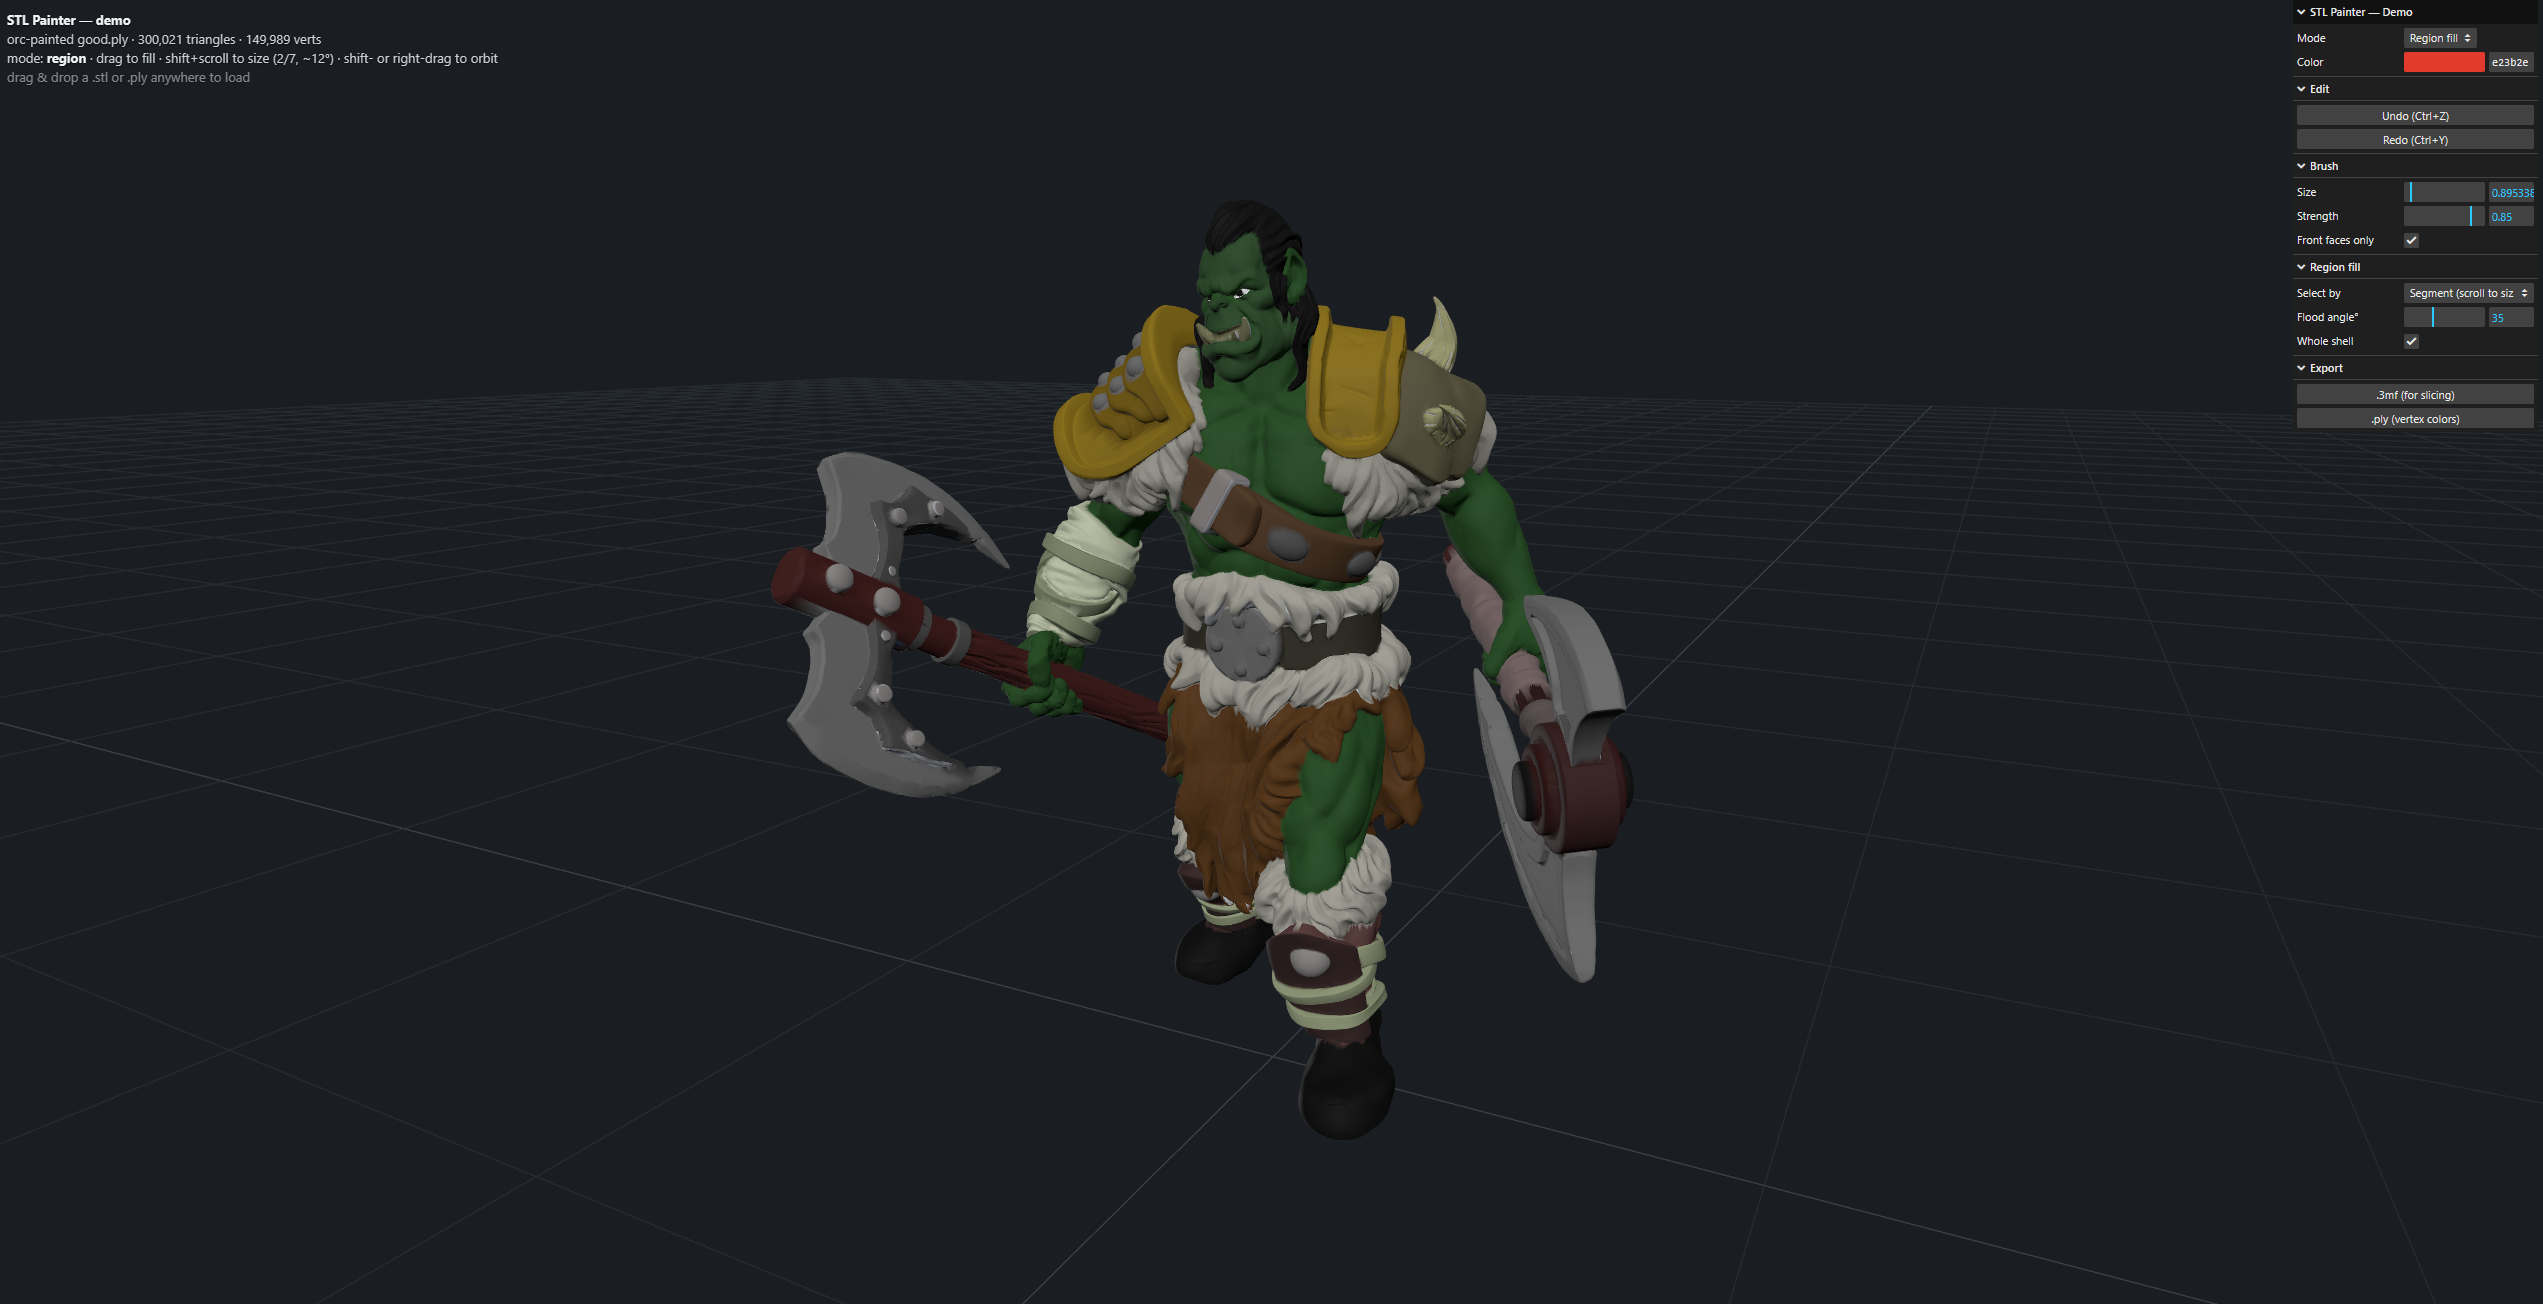
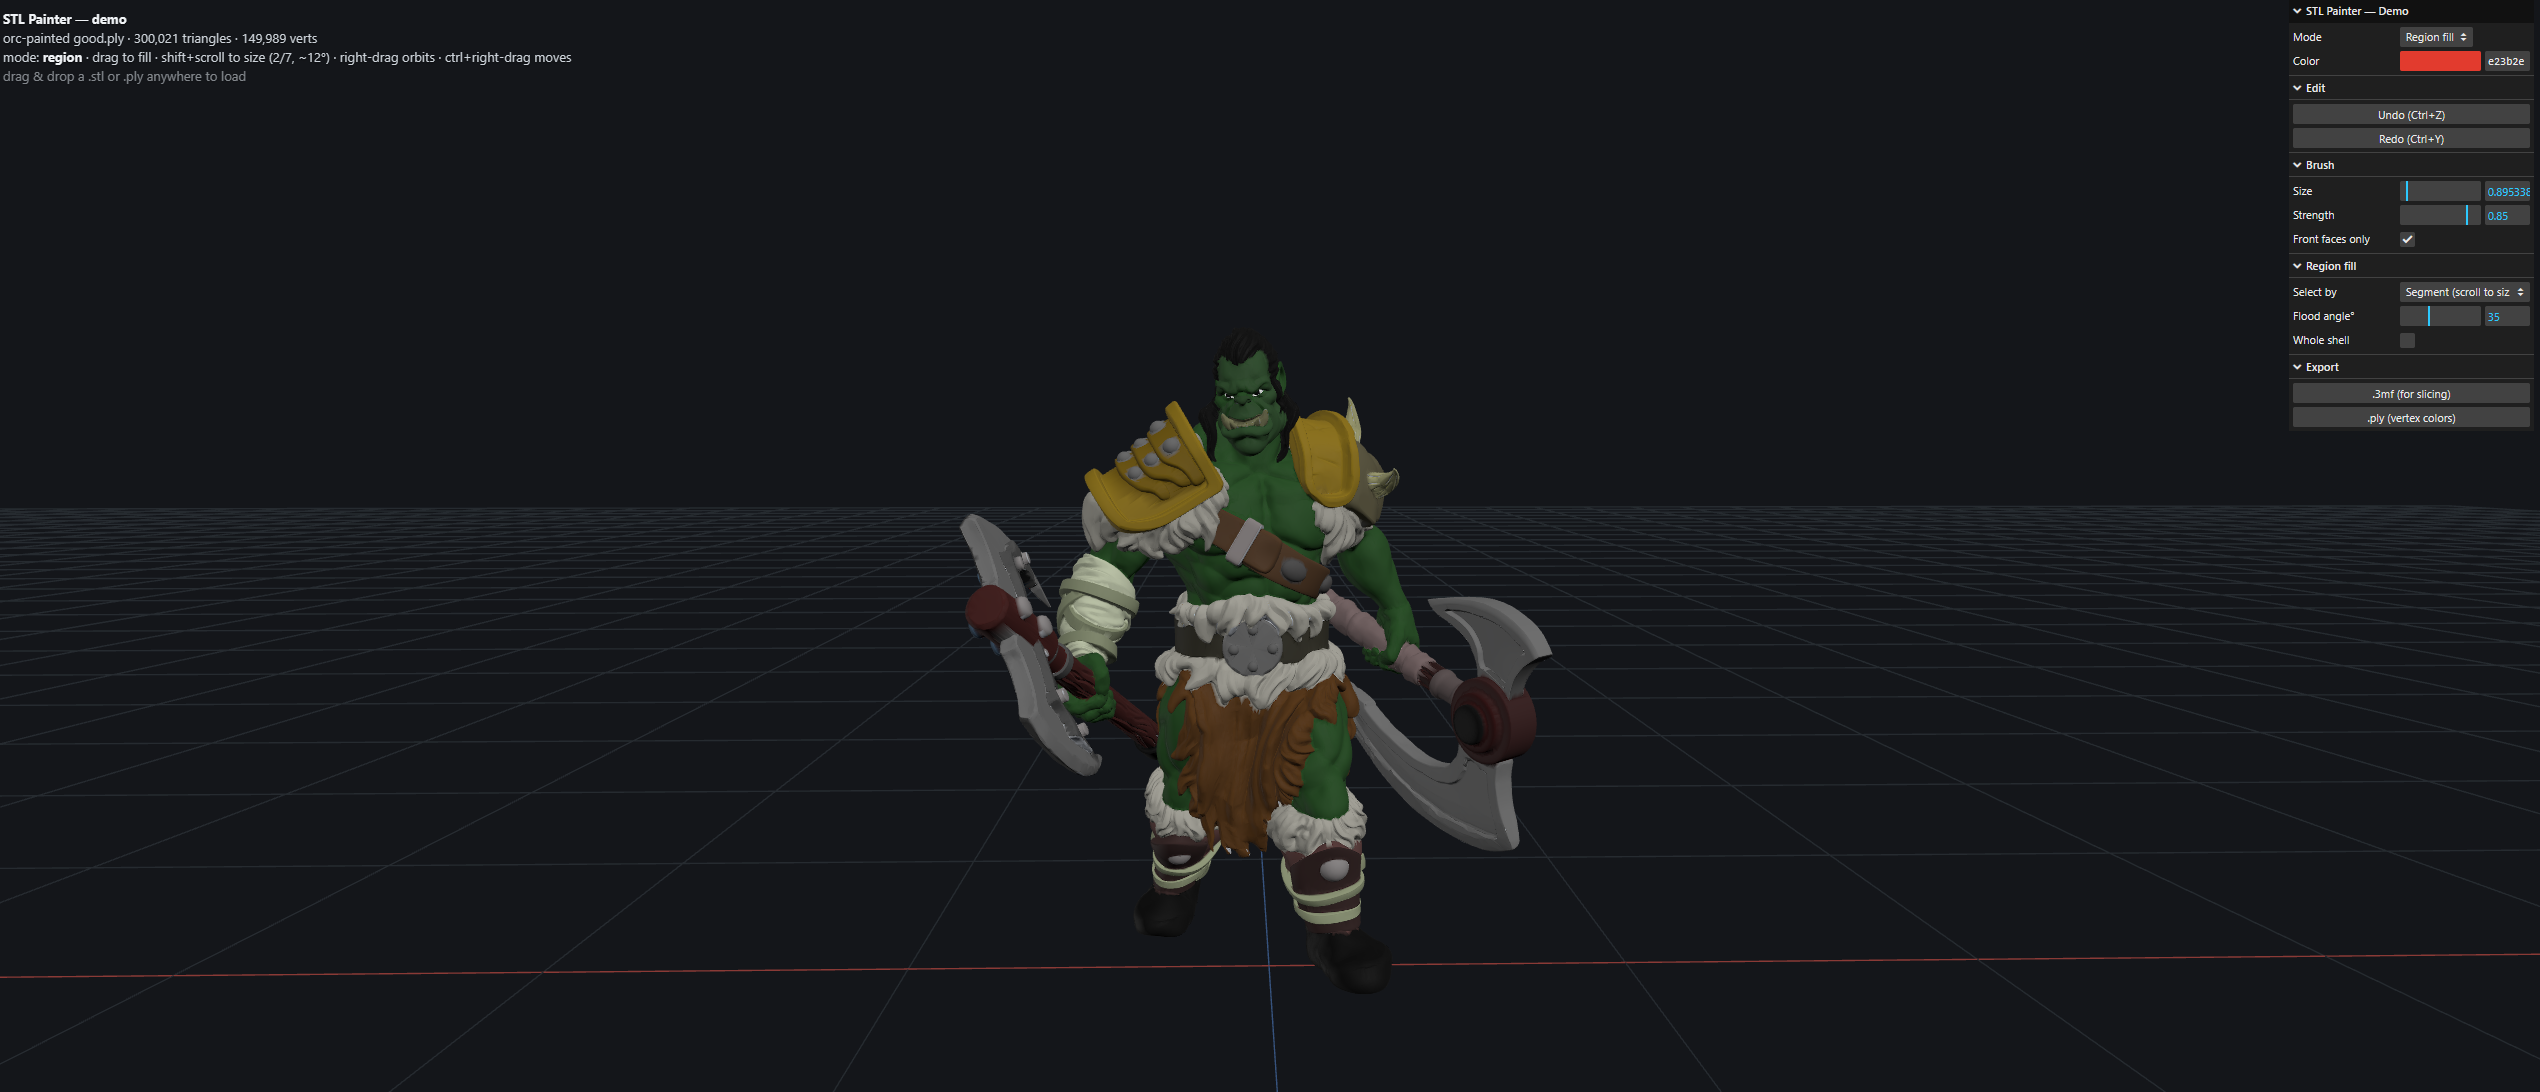
feat: colored ground axes + Ctrl+right-drag pan; chore: darker background, single-grid refactor

Changed region(s): [[0.2799, 0.1868, 0.6531, 0.8718], [0.902, 0.0, 1.0, 0.4048], [0.0, 0.0, 0.2177, 0.0934]]

diff --git a/src/scene.ts b/src/scene.ts
@@ -6,10 +6,50 @@ export interface SceneContext {
   camera: THREE.PerspectiveCamera
   renderer: THREE.WebGLRenderer
   controls: OrbitControls
-  grid: THREE.GridHelper
+  grid: THREE.LineSegments
 }
 
-const BACKGROUND = 0x1a1d21
+const BACKGROUND = 0x14161a
+
+/**
+ * A single ground grid whose two center lines are colored as the X (red) and
+ * Z (blue) axes, with the rest gray — one geometry, one draw call, all coplanar.
+ */
+function makeGrid(
+  size: number,
+  divisions: number,
+  gridColor: number,
+  xAxisColor: number,
+  zAxisColor: number,
+): THREE.LineSegments
+{
+  const half = size / 2
+  const step = size / divisions
+  const grid = new THREE.Color(gridColor)
+  const xAxis = new THREE.Color(xAxisColor)
+  const zAxis = new THREE.Color(zAxisColor)
+
+  const positions: number[] = []
+  const colors: number[] = []
+  const segment = (x1: number, z1: number, x2: number, z2: number, c: THREE.Color): void =>
+  {
+    positions.push(x1, 0, z1, x2, 0, z2)
+    colors.push(c.r, c.g, c.b, c.r, c.g, c.b)
+  }
+
+  for (let i = 0; i <= divisions; i++)
+  {
+    const p = -half + i * step
+    const center = Math.abs(p) < step / 2
+    segment(-half, p, half, p, center ? xAxis : grid) // parallel to X; z = 0 is the X axis
+    segment(p, -half, p, half, center ? zAxis : grid) // parallel to Z; x = 0 is the Z axis
+  }
+
+  const geometry = new THREE.BufferGeometry()
+  geometry.setAttribute('position', new THREE.Float32BufferAttribute(positions, 3))
+  geometry.setAttribute('color', new THREE.Float32BufferAttribute(colors, 3))
+  return new THREE.LineSegments(geometry, new THREE.LineBasicMaterial({ vertexColors: true }))
+}
 
 export function createScene(canvas: HTMLCanvasElement): SceneContext
 {
@@ -47,7 +87,8 @@ export function createScene(canvas: HTMLCanvasElement): SceneContext
   fill.position.set(-2, -1, -1.5)
   scene.add(fill)
 
-  const grid = new THREE.GridHelper(1000, 50, 0x3a4047, 0x262b30)
+  // Grid with the center lines colored as the X (red) and Z (blue) axes.
+  const grid = makeGrid(1000, 50, 0x262b30, 0x8a3a36, 0x36527d)
   scene.add(grid)
 
   window.addEventListener('resize', () =>

diff --git a/src/main.ts b/src/main.ts
@@ -60,7 +60,6 @@ function toNdc(e: PointerEvent): void
 canvas.addEventListener('pointerdown', (e) =>
 {
   if (e.button !== 0) return
-  if (e.shiftKey) return // Shift+left-drag is the free-move (orbit) override
 
   if (painter && state.mode === 'paint')
   {
@@ -149,16 +148,20 @@ window.addEventListener('keydown', (e) =>
   else if (k === 'y' || (k === 'z' && e.shiftKey)) { if (history?.redo()) e.preventDefault() }
 })
 
-// Hold Shift to free-move (orbit) with left-drag even while a tool owns the
-// left button. Releasing Shift restores the tool's left-click.
-function setLeftOrbit(on: boolean): void
-{
-  if (state.mode === 'orbit') return
-  ;(ctx.controls.mouseButtons as any).LEFT = on ? THREE.MOUSE.ROTATE : null
-}
-window.addEventListener('keydown', (e) => { if (e.key === 'Shift') setLeftOrbit(true) })
-window.addEventListener('keyup', (e) => { if (e.key === 'Shift') setLeftOrbit(false) })
-window.addEventListener('blur', () => setLeftOrbit(false))
+// On window + capture phase so it runs before OrbitControls' own pointerdown
+// reads mouseButtons. Net result: plain right = orbit, Ctrl+right = pan.
+window.addEventListener(
+  'pointerdown',
+  (e) =>
+  {
+    if (e.button !== 2 || state.mode === 'orbit') return
+    const nonCtrlModifier = (e.shiftKey || e.metaKey) && !e.ctrlKey
+    ;(ctx.controls.mouseButtons as any).RIGHT = nonCtrlModifier
+      ? THREE.MOUSE.PAN
+      : THREE.MOUSE.ROTATE
+  },
+  { capture: true },
+)
 
 // In paint/region modes the left button acts on the surface, so orbit moves to
 // right-drag. In orbit mode left-drag orbits as usual.
@@ -190,7 +193,7 @@ function updateHud(): void
   let hint: string
   if (state.mode === 'paint')
   {
-    hint = 'left-drag to paint · shift- or right-drag to orbit'
+    hint = 'left-drag to paint · right-drag orbits · ctrl+right-drag moves'
   }
   else if (state.mode === 'region')
   {
@@ -198,11 +201,11 @@ function updateHud(): void
     {
       hint =
         `drag to fill · shift+scroll to size ` +
-        `(${region.levelIndex + 1}/${region.levelCount}, ~${region.levelAngle}°) · shift- or right-drag to orbit`
+        `(${region.levelIndex + 1}/${region.levelCount}, ~${region.levelAngle}°) · right-drag orbits · ctrl+right-drag moves`
     }
-    else hint = 'drag to fill · shift- or right-drag to orbit'
+    else hint = 'drag to fill · right-drag orbits · ctrl+right-drag moves'
   }
-  else hint = 'left-drag to orbit'
+  else hint = 'left-drag to orbit · right-drag to pan'
   hud.innerHTML =
     `<b>STL Painter — demo</b><br>` +
     `${modelInfo}<br>` +

diff --git a/index.html b/index.html
@@ -13,7 +13,7 @@
         margin: 0;
         height: 100%;
         overflow: hidden;
-        background: #1a1d21;
+        background: #14161a;
         font-family: system-ui, -apple-system, Segoe UI, Roboto, sans-serif;
       }
       #app {
@@ -40,7 +40,7 @@
         inset: 0;
         display: grid;
         place-items: center;
-        background: #1a1d21;
+        background: #14161a;
         color: #cdd3da;
         font-size: 15px;
         transition: opacity 0.4s ease;
@@ -57,7 +57,7 @@
         place-items: center;
         border: 2px dashed #5a93c8;
         border-radius: 12px;
-        background: rgba(26, 29, 33, 0.7);
+        background: rgba(20, 22, 26, 0.7);
         color: #dce3ea;
         font-size: 18px;
         pointer-events: none;

diff --git a/README.md b/README.md
@@ -55,11 +55,11 @@ exported from this tool restores its colors).
 
 Pick a tool with the **Mode** selector, choose a **Color**, then:
 
-| Mode | Left‑drag | Scroll | Orbit |
+| Mode | Left‑drag | Right‑drag | Scroll |
 | --- | --- | --- | --- |
-| **Region fill** (default) | drag to fill segments | **Shift+scroll** resizes the selection | Shift‑drag or right‑drag |
-| **Paint** | brush color on | zoom | Shift‑drag or right‑drag |
-| **Orbit** | orbit | zoom | — |
+| **Region fill** (default) | fill the part under the cursor (drag to sweep several) | orbit · **Ctrl+right‑drag** pans | **Shift+scroll** resizes the selection · plain scroll zooms |
+| **Paint** | brush color onto the surface | orbit · **Ctrl+right‑drag** pans | zoom |
+| **Orbit** | orbit | pan | zoom |
 
 - **Undo / Redo:** `Ctrl+Z` / `Ctrl+Y`.
 - **Export:** the *Export* panel writes `.3mf` (for slicing) or `.ply`.